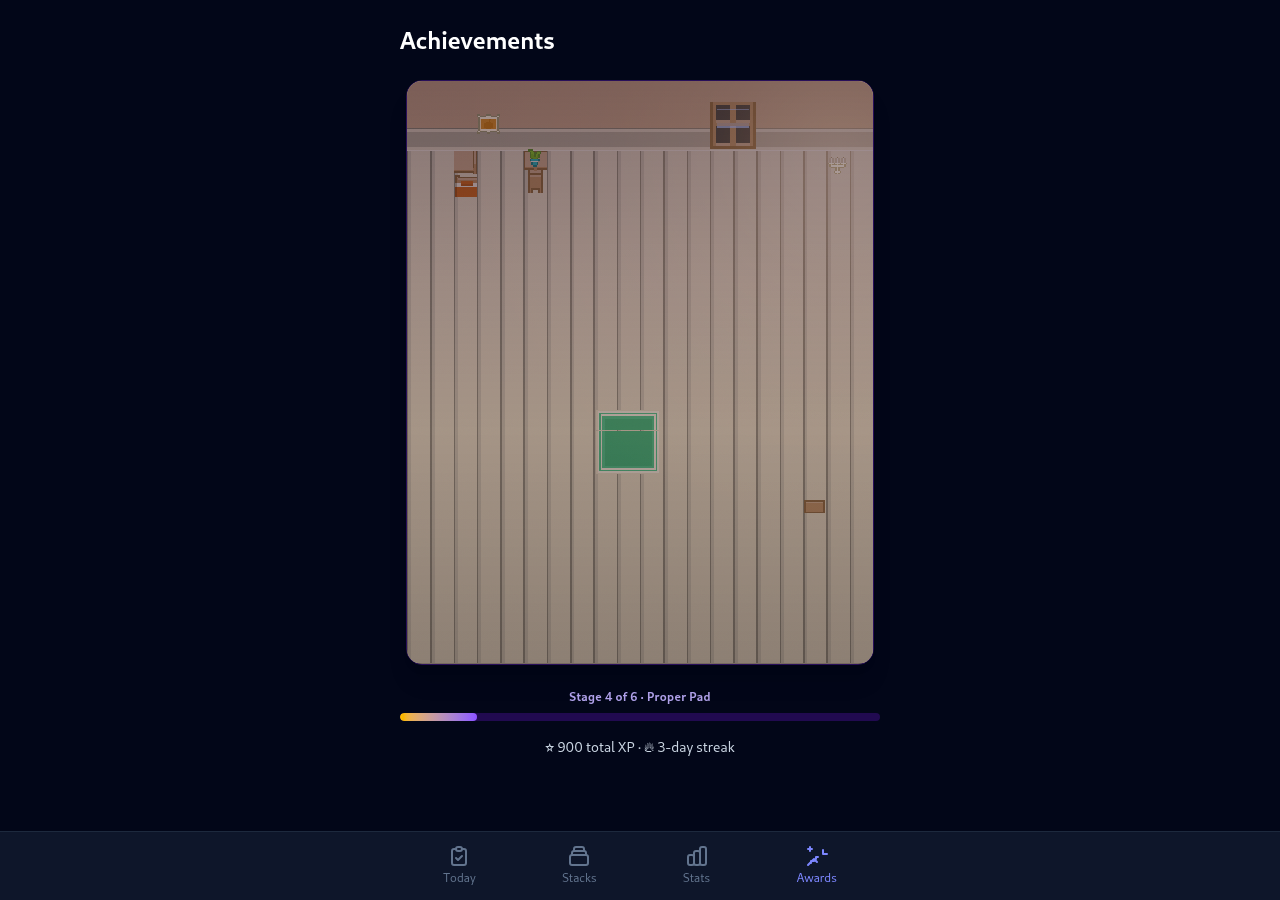
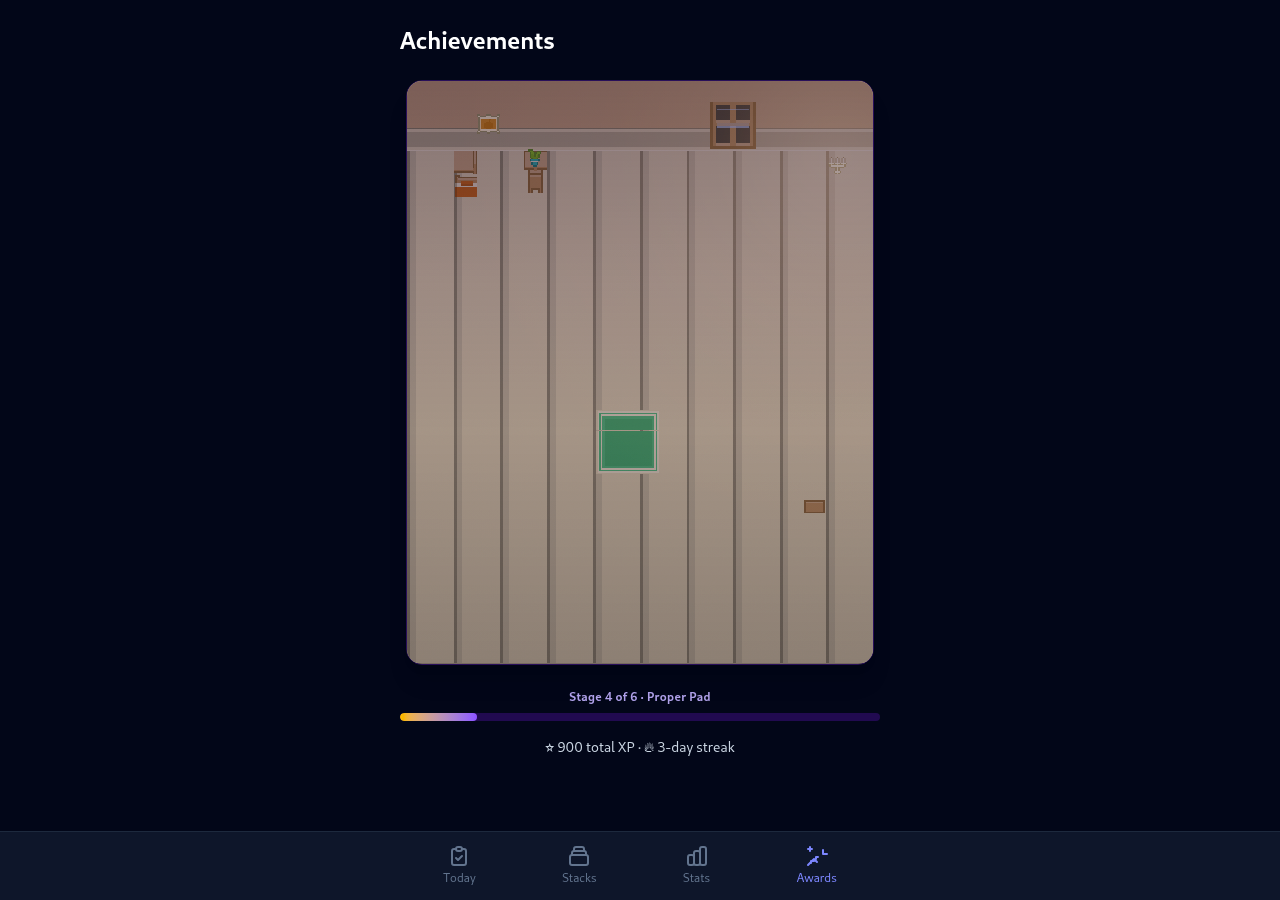
feat: double room contents scale (10x12.5 grid)
- grid halved 20x25 -> 10x12.5, wallRows 3 -> 1.5: same room footprint,
  every sprite and background plank renders 2x
- all ROOM_ITEMS x/y/w/h, LAMP_SPOT, WINDOW_SPOT scaled by 0.5
  (identical percent-of-scene layout)
- tile-derived CSS background-sizes doubled; rain insets halved;
  stale glow fallback corrected (21.3% -> 12.8%)
- layout.test.ts expectations rescaled to the new grid
- hero renders regenerated for the new scale

diff --git a/src/lib/room/layout.ts b/src/lib/room/layout.ts
@@ -1,6 +1,7 @@
 // Cozy room layout — every sprite is a 16x16 CC0 tile (see CREDITS.md).
-// Coordinates use a 20x25 tile grid inside a 4:5 hero: wall rows 0-2,
-// floor rows 3-24. Painter order of ROOM_ITEMS is intentional — later
+// Coordinates use a 10x12.5 tile grid inside a 4:5 hero (2x content scale:
+// fewer, bigger tiles — same percent-of-scene footprint): wall rows 0-1.5,
+// floor rows 1.5-12.5. Painter order of ROOM_ITEMS is intentional — later
 // entries render on top.
 import wallTile from '$lib/assets/room/wall.png';
 import wallBaseTile from '$lib/assets/room/wall-base.png';
@@ -32,7 +33,7 @@ import shelfEmpty from '$lib/assets/room/shelf-empty.png';
 import speakerImg from '$lib/assets/room/speaker.png';
 import petImg from '$lib/assets/room/pet.png';
 
-export const ROOM_GRID = { cols: 20, rows: 25, wallRows: 3 } as const;
+export const ROOM_GRID = { cols: 10, rows: 12.5, wallRows: 1.5 } as const;
 
 export const TILE_URLS = {
 	wall: wallTile,
@@ -41,10 +42,10 @@ export const TILE_URLS = {
 } as const;
 
 /** Where the lamp (and its glow) stands. */
-export const LAMP_SPOT = { x: 18.5, y: 3.2 } as const;
+export const LAMP_SPOT = { x: 9.25, y: 1.6 } as const;
 
 /** The window (source of the night rain layer), in tile units. */
-export const WINDOW_SPOT = { x: 13, y: 0.9, w: 2, h: 2 } as const;
+export const WINDOW_SPOT = { x: 6.5, y: 0.45, w: 1, h: 1 } as const;
 
 export interface RoomItem {
 	id: string;
@@ -69,30 +70,30 @@ export interface RoomItem {
  * 5 pet+bookshelf -> 6 media shelf+speaker.
  */
 export const ROOM_ITEMS: RoomItem[] = [
-	{ id: 'window', src: windowImg, x: 13, y: 0.9, w: 2, h: 2, stage: 1, alt: 'Night window with four dark panes' },
-	{ id: 'poster', src: posterImg, x: 3, y: 1.3, w: 1, h: 1, stage: 3, alt: 'Framed poster on the wall' },
-	{ id: 'blanket', src: blanketImg, x: 2, y: 17.6667, w: 1, h: 1, stage: 1, until: 4, alt: 'Folded blanket with a pillow on the floor' },
-	{ id: 'bedroll', src: bedrollImg, x: 3, y: 17.6667, w: 1, h: 1, stage: 1, until: 4, alt: 'Rolled-up sleeping mat on the floor' },
-	{ id: 'crate', src: crateImg, x: 17, y: 17.6667, w: 1, h: 1, stage: 1, alt: 'Simple wooden storage box' },
-	{ id: 'lamp', src: lampImg, x: 18, y: 3, w: 1, h: 1, stage: 1, alt: 'Lit candelabra standing by the wall' },
-	{ id: 'desk', src: deskImg, x: 5, y: 3, w: 1, h: 1, stage: 2, alt: 'Small wooden desk against the wall' },
-	{ id: 'chair', src: chairImg, x: 5, y: 4, w: 1, h: 1, stage: 2, alt: 'Wooden chair tucked at the desk' },
-	{ id: 'sprout', src: sproutImg, x: 5, y: 2.75, w: 1, h: 1, stage: 3, alt: 'Little potted sprout on the desk' },
-	{ id: 'bed-top', src: bedTopImg, x: 2, y: 3, w: 1, h: 1, stage: 4, alt: 'Head of a proper bed against the wall' },
-	{ id: 'bed-bot', src: bedBotImg, x: 2, y: 4, w: 1, h: 1, stage: 4, alt: 'Proper bed with an orange blanket' },
-	{ id: 'rug-tl', src: rugTl, x: 8, y: 14, w: 1, h: 1, stage: 4, alt: '' },
-	{ id: 'rug-t', src: rugT, x: 9, y: 14, w: 1, h: 1, stage: 4, alt: '' },
-	{ id: 'rug-tr', src: rugTr, x: 10, y: 14, w: 1, h: 1, stage: 4, alt: '' },
-	{ id: 'rug-l', src: rugL, x: 8, y: 15, w: 1, h: 1, stage: 4, alt: '' },
-	{ id: 'rug-c', src: rugC, x: 9, y: 15, w: 1, h: 1, stage: 4, alt: '' },
-	{ id: 'rug-r', src: rugR, x: 10, y: 15, w: 1, h: 1, stage: 4, alt: '' },
-	{ id: 'rug-bl', src: rugBl, x: 8, y: 16, w: 1, h: 1, stage: 4, alt: '' },
-	{ id: 'rug-b', src: rugB, x: 9, y: 16, w: 1, h: 1, stage: 4, alt: '' },
-	{ id: 'rug-br', src: rugBr, x: 10, y: 16, w: 1, h: 1, stage: 4, alt: '' },
-	{ id: 'bookshelf-1', src: bookshelf1, x: 9, y: 3, w: 1, h: 1, stage: 5, alt: 'Bookshelf with colorful book spines' },
-	{ id: 'bookshelf-2', src: bookshelf2, x: 10, y: 3, w: 1, h: 1, stage: 5, alt: '' },
-	{ id: 'bookshelf-3', src: bookshelf3, x: 11, y: 3, w: 1, h: 1, stage: 5, alt: '' },
-	{ id: 'pet', src: petImg, x: 9, y: 15.2, w: 1, h: 1, stage: 5, alt: 'Pet pig napping on the rug' },
-	{ id: 'shelf-media', src: shelfEmpty, x: 15, y: 3, w: 1, h: 1, stage: 6, alt: 'Media shelf against the wall' },
-	{ id: 'speaker', src: speakerImg, x: 15, y: 2.2, w: 1, h: 1, stage: 6, alt: 'Speaker sitting on the media shelf' }
+	{ id: 'window', src: windowImg, x: 6.5, y: 0.45, w: 1, h: 1, stage: 1, alt: 'Night window with four dark panes' },
+	{ id: 'poster', src: posterImg, x: 1.5, y: 0.65, w: 0.5, h: 0.5, stage: 3, alt: 'Framed poster on the wall' },
+	{ id: 'blanket', src: blanketImg, x: 1, y: 8.8333, w: 0.5, h: 0.5, stage: 1, until: 4, alt: 'Folded blanket with a pillow on the floor' },
+	{ id: 'bedroll', src: bedrollImg, x: 1.5, y: 8.8333, w: 0.5, h: 0.5, stage: 1, until: 4, alt: 'Rolled-up sleeping mat on the floor' },
+	{ id: 'crate', src: crateImg, x: 8.5, y: 8.8333, w: 0.5, h: 0.5, stage: 1, alt: 'Simple wooden storage box' },
+	{ id: 'lamp', src: lampImg, x: 9, y: 1.5, w: 0.5, h: 0.5, stage: 1, alt: 'Lit candelabra standing by the wall' },
+	{ id: 'desk', src: deskImg, x: 2.5, y: 1.5, w: 0.5, h: 0.5, stage: 2, alt: 'Small wooden desk against the wall' },
+	{ id: 'chair', src: chairImg, x: 2.5, y: 2, w: 0.5, h: 0.5, stage: 2, alt: 'Wooden chair tucked at the desk' },
+	{ id: 'sprout', src: sproutImg, x: 2.5, y: 1.375, w: 0.5, h: 0.5, stage: 3, alt: 'Little potted sprout on the desk' },
+	{ id: 'bed-top', src: bedTopImg, x: 1, y: 1.5, w: 0.5, h: 0.5, stage: 4, alt: 'Head of a proper bed against the wall' },
+	{ id: 'bed-bot', src: bedBotImg, x: 1, y: 2, w: 0.5, h: 0.5, stage: 4, alt: 'Proper bed with an orange blanket' },
+	{ id: 'rug-tl', src: rugTl, x: 4, y: 7, w: 0.5, h: 0.5, stage: 4, alt: '' },
+	{ id: 'rug-t', src: rugT, x: 4.5, y: 7, w: 0.5, h: 0.5, stage: 4, alt: '' },
+	{ id: 'rug-tr', src: rugTr, x: 5, y: 7, w: 0.5, h: 0.5, stage: 4, alt: '' },
+	{ id: 'rug-l', src: rugL, x: 4, y: 7.5, w: 0.5, h: 0.5, stage: 4, alt: '' },
+	{ id: 'rug-c', src: rugC, x: 4.5, y: 7.5, w: 0.5, h: 0.5, stage: 4, alt: '' },
+	{ id: 'rug-r', src: rugR, x: 5, y: 7.5, w: 0.5, h: 0.5, stage: 4, alt: '' },
+	{ id: 'rug-bl', src: rugBl, x: 4, y: 8, w: 0.5, h: 0.5, stage: 4, alt: '' },
+	{ id: 'rug-b', src: rugB, x: 4.5, y: 8, w: 0.5, h: 0.5, stage: 4, alt: '' },
+	{ id: 'rug-br', src: rugBr, x: 5, y: 8, w: 0.5, h: 0.5, stage: 4, alt: '' },
+	{ id: 'bookshelf-1', src: bookshelf1, x: 4.5, y: 1.5, w: 0.5, h: 0.5, stage: 5, alt: 'Bookshelf with colorful book spines' },
+	{ id: 'bookshelf-2', src: bookshelf2, x: 5, y: 1.5, w: 0.5, h: 0.5, stage: 5, alt: '' },
+	{ id: 'bookshelf-3', src: bookshelf3, x: 5.5, y: 1.5, w: 0.5, h: 0.5, stage: 5, alt: '' },
+	{ id: 'pet', src: petImg, x: 4.5, y: 7.6, w: 0.5, h: 0.5, stage: 5, alt: 'Pet pig napping on the rug' },
+	{ id: 'shelf-media', src: shelfEmpty, x: 7.5, y: 1.5, w: 0.5, h: 0.5, stage: 6, alt: 'Media shelf against the wall' },
+	{ id: 'speaker', src: speakerImg, x: 7.5, y: 1.1, w: 0.5, h: 0.5, stage: 6, alt: 'Speaker sitting on the media shelf' }
 ];

diff --git a/src/lib/components/LofiRoom.svelte b/src/lib/components/LofiRoom.svelte
@@ -40,10 +40,10 @@
 	let lampTop = `${((LAMP_SPOT.y / rows) * 100).toFixed(4)}%`;
 
 	// rain falls inside the window glass, slightly inset from the frame
-	let rainX = WINDOW_SPOT.x + 0.3;
-	let rainY = WINDOW_SPOT.y + 0.3;
-	let rainW = WINDOW_SPOT.w - 0.6;
-	let rainH = WINDOW_SPOT.h - 0.55;
+	let rainX = WINDOW_SPOT.x + 0.15;
+	let rainY = WINDOW_SPOT.y + 0.15;
+	let rainW = WINDOW_SPOT.w - 0.3;
+	let rainH = WINDOW_SPOT.h - 0.275;
 </script>
 
 <section
@@ -57,7 +57,7 @@
 		class="lofi-scene relative w-full"
 		style="aspect-ratio: 4 / 5;"
 	>
-		<!-- background layers: wall body (2 tiles) + baseboard row (1 tile) + floor -->
+		<!-- background layers: wall body (1 tile) + baseboard (half tile) + floor -->
 		<div class="lofi-wall" aria-hidden="true"></div>
 		<div class="lofi-wall-base" aria-hidden="true"></div>
 		<div class="lofi-floor" aria-hidden="true"></div>
@@ -136,26 +136,26 @@
 		image-rendering: pixelated;
 		pointer-events: none;
 	}
-	/* wall body: rows 0-1 (each tile = 4% of scene height on the 25-row grid) */
+	/* wall body: rows 0-1 (each tile = 8% of scene height on the 12.5-row grid) */
 	.lofi-wall {
 		top: 0;
 		height: 8%;
 		background-image: var(--wall-tile);
-		background-size: 5% 50%;
+		background-size: 10% 100%;
 	}
-	/* baseboard: row 2 */
+	/* baseboard: half tile below the wall body */
 	.lofi-wall-base {
 		top: 8%;
 		height: 4%;
 		background-image: var(--wall-base-tile);
-		background-size: 5% 100%;
+		background-size: 10% 100%;
 	}
-	/* floor: rows 3-24 */
+	/* floor: rows 1.5-12.5 */
 	.lofi-floor {
 		top: 12%;
 		height: 88%;
 		background-image: var(--floor-tile);
-		background-size: 5% 4.5455%;
+		background-size: 10% 9.0909%;
 	}
 	.lofi-item {
 		position: absolute;
@@ -170,7 +170,7 @@
 		pointer-events: none;
 		mix-blend-mode: screen;
 		background: radial-gradient(
-			circle at var(--lamp-x, 92.5%) var(--lamp-y, 21.3%),
+			circle at var(--lamp-x, 92.5%) var(--lamp-y, 12.8%),
 			rgba(255, 176, 86, 0.55) 0%,
 			rgba(255, 156, 64, 0.22) 18%,
 			rgba(255, 140, 60, 0.08) 34%,

diff --git a/src/lib/room/layout.test.ts b/src/lib/room/layout.test.ts
@@ -21,18 +21,18 @@ describe('ROOM_ITEMS', () => {
 		}
 	});
 
-	it('forms a contiguous 3x3 rug at rows 14-16', () => {
+	it('forms a contiguous 3x3 rug at rows 7-8', () => {
 		const rug = ROOM_ITEMS.filter((item) => RUG_IDS.includes(item.id));
 		expect(rug).toHaveLength(9);
 		for (const tile of rug) {
-			expect([14, 15, 16]).toContain(tile.y);
-			expect([8, 9, 10]).toContain(tile.x);
+			expect([7, 7.5, 8]).toContain(tile.y);
+			expect([4, 4.5, 5]).toContain(tile.x);
 		}
 		// nine unique grid spots = the full block
 		expect(new Set(rug.map((t) => `${t.y}:${t.x}`)).size).toBe(9);
 	});
 
 	it('places the pet on the rug middle row', () => {
-		expect(ROOM_ITEMS.find((item) => item.id === 'pet')?.y).toBe(15.2);
+		expect(ROOM_ITEMS.find((item) => item.id === 'pet')?.y).toBe(7.6);
 	});
 });
